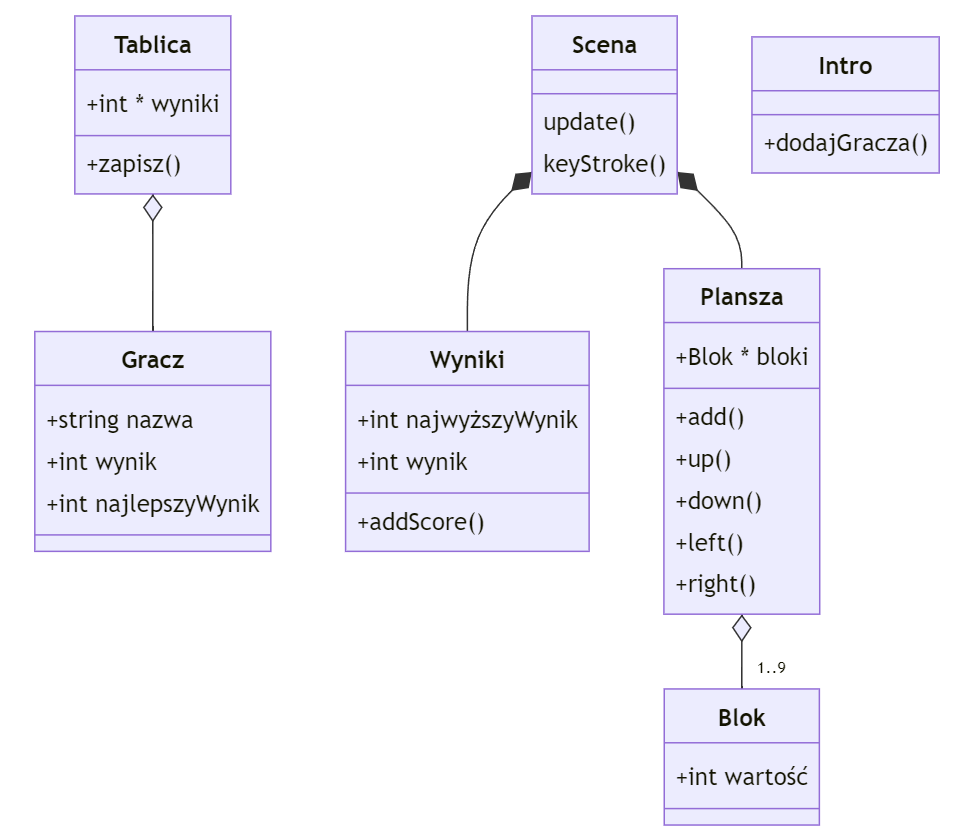
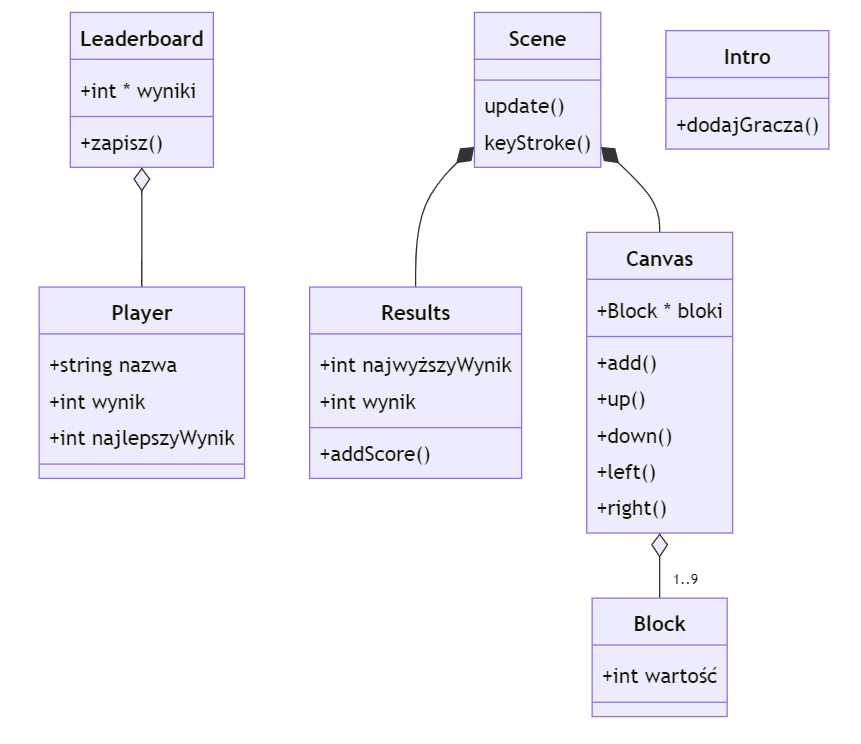
zmiana w uml

diff --git a/ASK/lista12/zad2.c b/ASK/lista12/zad2.c
@@ -1,0 +1,11 @@
+#include <stdio.h>
+
+__attribute__((leaf))
+size_t my_strlen(const char *s);
+
+const char *my_index(const char *s, char v) {
+  for (size_t i = 0; i < my_strlen(s); i++)
+    if (s[i] == v)
+      return &s[i];
+  return 0;
+}

diff --git a/PO/projekt/opis.md b/PO/projekt/opis.md
@@ -2,6 +2,8 @@ Projekt: Gra 2048 napisana w Ruby
 
 Autor: Rafał Leja 340879
 
+Data: 16.05.2023
+
 Opis projektu:
 Projekt polega na stworzeniu gry 2048 przy użyciu języka programowania Ruby oraz biblioteki ruby2d. Gra 2048 to logiczna gra planszowa, w której gracz musi łączyć kafelki o tej samej wartości, aby ostatecznie uzyskać kafelek o wartości 2048.
 
@@ -11,12 +13,12 @@ Gra 2048 odbywa się na kwadratowej planszy, która składa się z pól o różn
 Opis implementacji:
 Gra 2048 zostanie zaimplementowana w oparciu o programowanie obiektowe w języku Ruby, przy pomocy biblioteki ruby2d. Projekt będzie składał się z kilku klas, które będą reprezentować różne elementy gry, takie jak plansza, kafelki, gracz itp.
 
-1. Klasa  "Kafelek":
+1. Klasa  "Block":
    - Klasa reprezentująca pojedynczy kafelek na planszy.
    - Będzie przechowywać wartość kafelka i posiadać metody do pobierania i ustawiania wartości.
   
 
-2. Klasa "Plansza":
+2. Klasa "Canvas":
    - Klasa reprezentująca planszę gry.
    - Będzie przechowywać wszystkie kafelki i zarządzać ich położeniem i wartościami.
    - Będzie posiadać metody do tworzenia nowego kafelka, wykonywania ruchów i sprawdzania warunków końca gry.
@@ -28,24 +30,24 @@ Gra 2048 zostanie zaimplementowana w oparciu o programowanie obiektowe w języku
    - Będzie posiadać metode do pobierania nazwy gracza. 
 
 
-4. Klasa "Tablica":
+4. Klasa "Leaderboard":
    - Klasa reprezentująca tablice wyników końcowych.
    - Będzie wyświetlać wyniki wszystkich graczy.
    - Będzie zapisywać wyniki do pliku.
 
 
-5. Klasa "Wyniki":
+5. Klasa "Results":
    - Klasa reprezentująca wyniki.
    - Będzie zliczać i wyświetlać aktualny oraz najwyższy wynik.
    - Będzie posiadać metodę aktualizującą wyniki.
 
 
-6. Klasa "Gracz":
+6. Klasa "Player":
    - Klasa reprezentująca gracza.
    - Odpowiedzialna za zapisywanie nazwy oraz wyników gracza.
 
 
-7. Klasa "Scena":
+7. Klasa "Scene":
    - Główna klasa reprezentująca wyświetlanie ekranów.
-   - Będzie zarządzać wyświetlaniem innych klas, takimich jak plansza i Tablica.
+   - Będzie zarządzać wyświetlaniem innych klas, takimich jak Leaderboard i Canvas.
    - Będzie posiadać metodę główną wyświetlającą scene oraz wszystkie istotne elementy.

diff --git a/ASK/lista12/zad2.md b/ASK/lista12/zad2.md
@@ -1,0 +1,27 @@
+```C
+__attribute__((leaf))
+size_t my_strlen(const char *s);
+
+const char *my_index(const char *s, char v) {
+  for (size_t i = 0; i < my_strlen(s); i++)
+    if (s[i] == v)
+      return &s[i];
+  return 0;
+}
+
+static size_t my_strlen(const char *s){
+  long length = 0;
+  while (*s != ’\0’) {
+    s++;
+    length++;
+  }
+  return length;
+}
+```
+
+### Ile razy zostanie zawołana funkcja «my_strlen» w funkcji «my_index» i dlaczego?
+ - funkcja «my_strlen» będzie wywoływana przy każdej iteracji, ponieważ kompilator przypuszcza że wynik tej funkcji może ulec zmianie
+
+### Dodaj atrybut2 «pure» do funkcji «my_strlen». Czemu tym razem kompilator był w stanie lepiej zoptymalizować funkcję «my_index»? 
+ - atrubut pure mówi kompilatorowi że dana funkcja ma zawsze taki sam wynik dla danego argumentu, przez co kompilator może zastąpić kolejne wywołania tej funkcji wartością pierwszego wywołania
+

diff --git a/PO/projekt/uml.md b/PO/projekt/uml.md
@@ -1,38 +1,38 @@
 ```mermaid
 classDiagram
-  Plansza o-- "1..9" Blok
-  Tablica o-- Gracz
-  Scena *-- Wyniki
-  Scena *-- Plansza
+  Canvas o-- "1..9" Block
+  Leaderboard o-- Player
+  Scene *-- Results
+  Scene *-- Canvas
   class Intro{
     +dodajGracza()
   }
-  class Tablica{
+  class Leaderboard{
     +int * wyniki
     +zapisz()
   }
-  class Gracz{
+  class Player{
     +string nazwa
     +int wynik
     +int najlepszyWynik
   }
-  class Plansza{
-    +Blok * bloki
+  class Canvas{
+    +Block * bloki
     +add()
     +up()
     +down()
     +left()
     +right()
   }
-  class Blok{
+  class Block{
     +int wartość
   }
-  class Wyniki{
+  class Results{
     +int najwyższyWynik
     +int wynik
     +addScore()
   }
-  class Scena{
+  class Scene{
     update()
     keyStroke()
   } 
